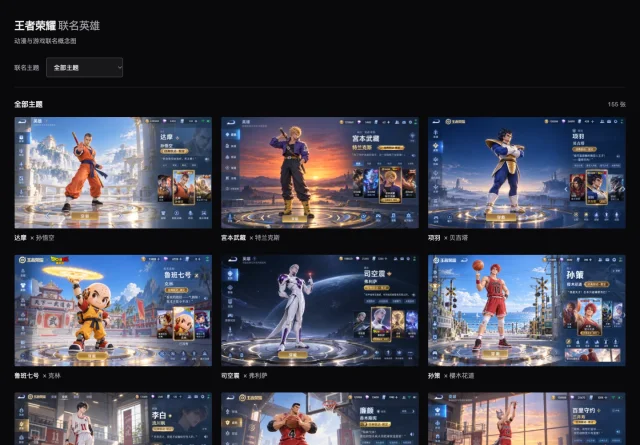
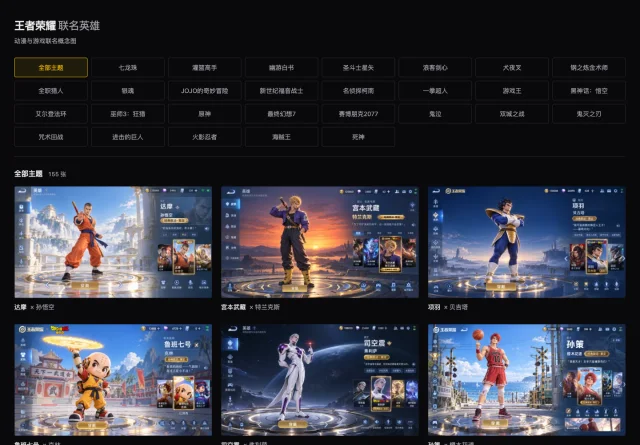
Update crossover gallery preview and theme download description

diff --git a/README.md b/README.md
@@ -27,7 +27,7 @@
 | 游戏剧情视频合集 | <img width="320" alt="游戏剧情视频合集预览" src="./thumbs/portfolio-elden-ring-lore.webp"> | 六款游戏的中文剧情视频：艾尔登法环、赛博朋克2077、荒野大镖客2、GTA5、巫师三、黑暗之魂3。按游戏切换，支持章节跳转。 | [Demo](https://elden-ring-lore.xiaosang.cc/) · [Repo](https://github.com/holynova/elden-ring-lore) |
 | 艾尔登法环 · 交界地编年史 | <img width="320" alt="艾尔登法环 · 交界地编年史真实页面预览" src="./thumbs/portfolio-elden-ring-lore-video.webp"> | 五章节中文剧情短片：从黄金律法、黑刀之夜，到破碎战争与三种结局。 | [Demo](https://elden-ring-lore-video.xiaosang.cc/) · [Repo](https://github.com/holynova/elden-ring-lore-video) |
 | 印画图鉴 · Folk & Stamp Gallery | <img width="320" alt="印画图鉴 · Folk & Stamp Gallery真实页面预览" src="./thumbs/portfolio-folk-gallery.webp"> | 321幅农民画与印章图鉴，网格加载缩略图，灯箱显示高清原图，支持键盘切换。 | [Demo](https://folk-gallery.xiaosang.cc/) · [Repo](https://github.com/holynova/folk-gallery) |
-| 王者荣耀 · 联名英雄图集 | <img width="320" alt="王者荣耀联名英雄图集页面预览" src="./thumbs/portfolio-crossover-folk-gallery.webp"> | 155张联名英雄概念图，按28个动漫与游戏主题分类，支持高清大图浏览。 | [Demo](https://crossover-folk-gallery.xiaosang.cc/) · [Repo](https://github.com/holynova/crossover-folk-gallery) |
+| 王者荣耀 · 联名英雄图集 | <img width="320" alt="王者荣耀联名英雄图集页面预览" src="./thumbs/portfolio-crossover-folk-gallery.webp"> | 155张联名英雄概念图，28个等宽主题标签，支持高清浏览与主题原图打包下载。 | [Demo](https://crossover-folk-gallery.xiaosang.cc/) · [Repo](https://github.com/holynova/crossover-folk-gallery) |
 | 创世纪 · 触碰的四十种可能 | <img width="320" alt="创世纪 · 触碰的四十种可能真实页面预览" src="./thumbs/portfolio-the-creation-variants.webp"> | 米开朗基罗《创造亚当》40个变种数字艺术展厅：经典、神话、赛博、极简与波普，支持多视角浏览与中英双语解析。 | [Demo](https://the-creation-variants.xiaosang.cc/) · [Repo](https://github.com/holynova/the-creation-variants) |
 | PHOTO-REAL VIRTUALITY · 游戏写实影像 | <img width="320" alt="PHOTO-REAL VIRTUALITY · 游戏写实影像真实页面预览" src="./thumbs/portfolio-elden-ring-liveaction.webp"> | 将艾尔登法环、赛博朋克2077与塞尔达角色和场景转译为摄影风格AI图像。 | [Demo](https://elden-ring-liveaction.xiaosang.cc/) · [Repo](https://github.com/holynova/elden-ring-liveaction) |
 | 认知工件实验室 · AI Explainer Artifacts | <img width="320" alt="认知工件实验室 · AI Explainer Artifacts真实页面预览" src="./thumbs/portfolio-karpathy-deep-explainer-artifacts.webp"> | 通过独立交互页面探索前端、分布式系统、提示词工程及两位创作者的观点整理。 | [Demo](https://karpathy-deep-explainer-artifacts.xiaosang.cc/) · [Repo](https://github.com/holynova/karpathy-deep-explainer-artifacts) |
